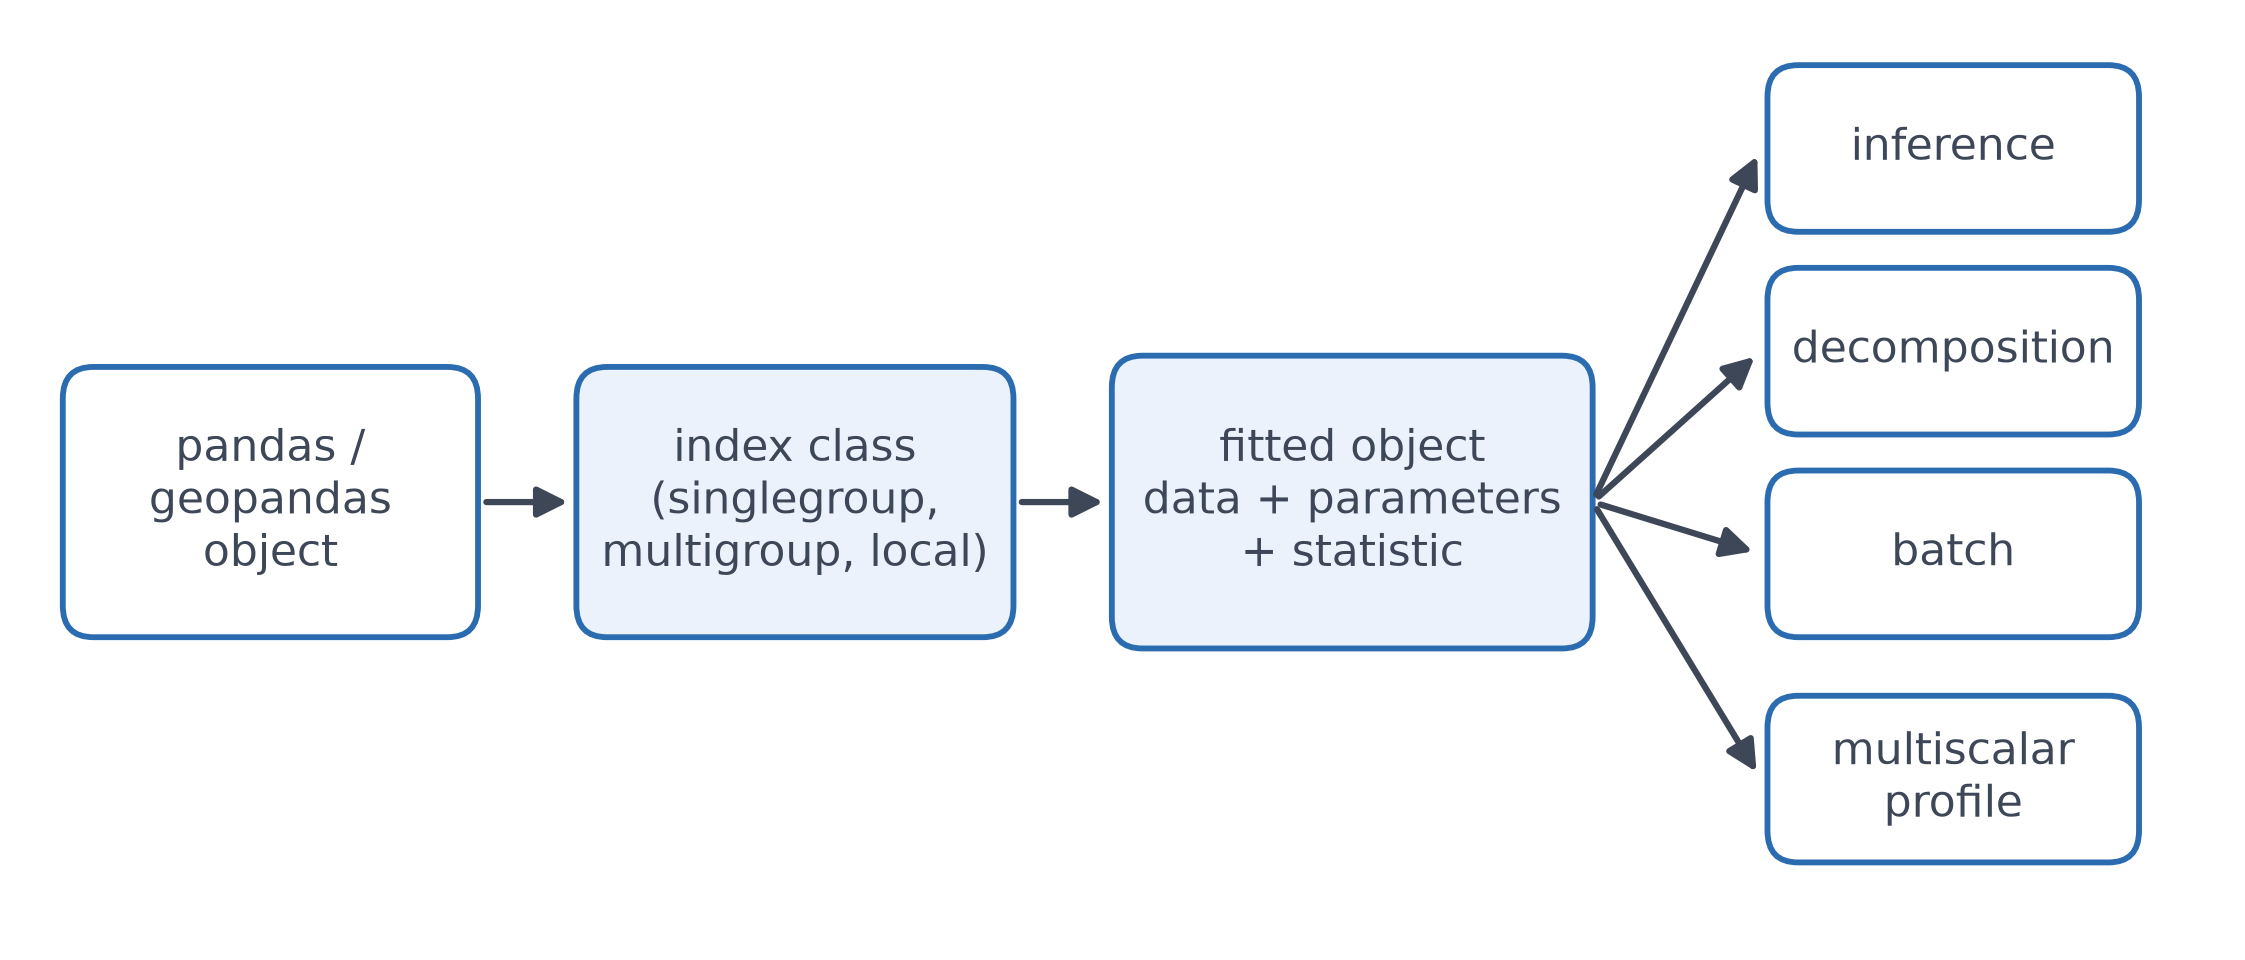
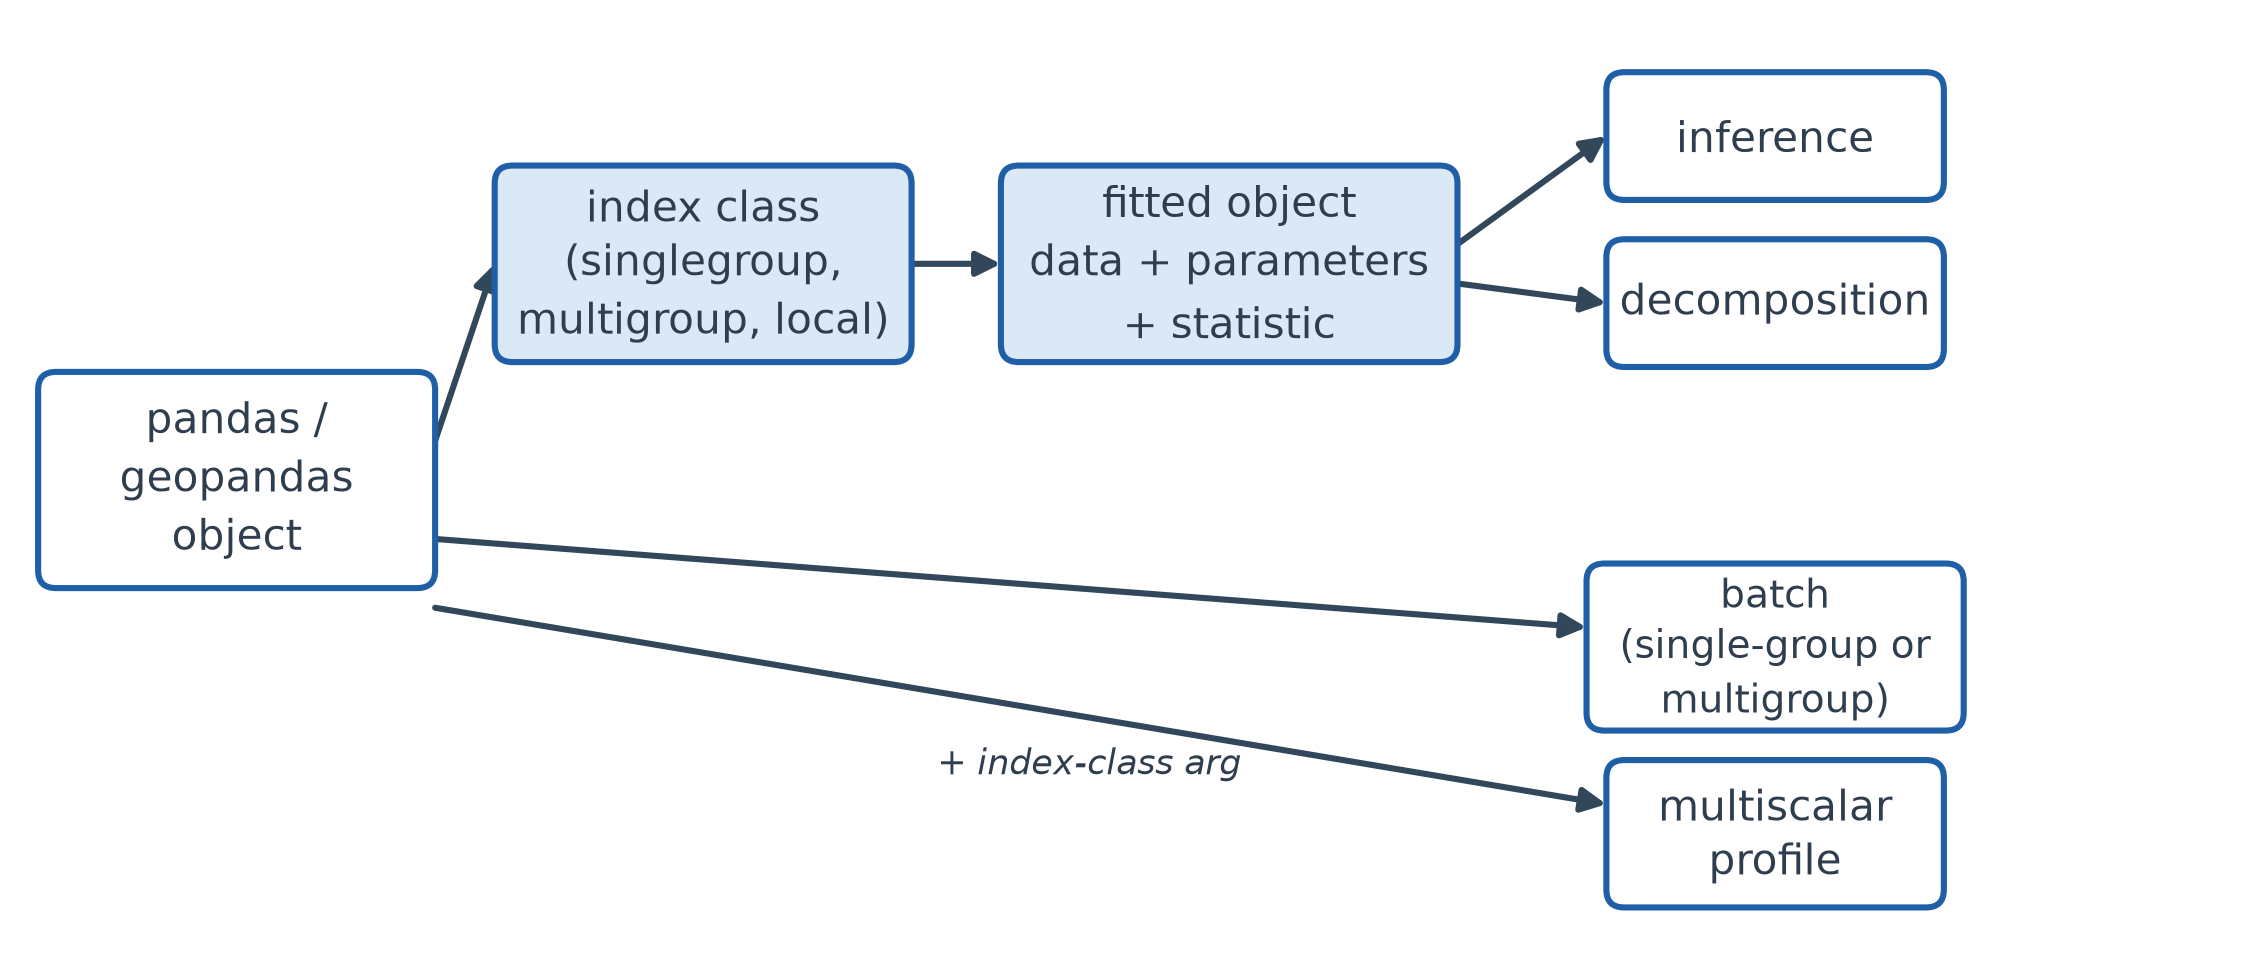
fix diagram figure, caption and description

diff --git a/paper/paper.md b/paper/paper.md
@@ -87,9 +87,9 @@ The most closely related tools are the R packages `OasisR` [@tivadar2019oasisr],
 
 `segregation` is organized into subpackages by analysis task (`singlegroup`, `multigroup`, `local`, `inference`, `decomposition`, `batch`, `network`, and `dynamics`[^1]), so that the large collection of indices stays navigable and users import only what they need. Each index is implemented as a Python class rather than a bare function: fitting a class stores the input data, parameters, and result on one object, which `inference` and `decomposition` then consume directly. This estimator-style pattern follows a convention familiar from scikit-learn and avoids threading many arguments through a functional API. The design also distinguishes two kinds of indices. *Spatially-explicit* indices include space in their formula. *Spatially-implicit* indices instead accept spatial weights or a network and transform the data before estimation, following @reardonsullivan2004; one class therefore serves both aspatial and spatial use, at the cost of expressing spatial behavior through parameters rather than through distinct types.
 
-\autoref{fig:workflow} summarizes the resulting data flow: a `pandas` or `geopandas` object is passed to an index class, which returns a fitted object holding the data, parameters, and statistic; the `inference`, `decomposition`, `batch`, and multiscalar-profile tools then consume that object.
+\autoref{fig:workflow} summarizes the resulting data flow: a `pandas` or `geopandas` object is passed to an index class, which returns a fitted object holding the data, parameters, and statistic; `inference` and `decomposition` consume that fitted object directly. `batch`, which covers both single-group and multigroup measures, instead takes the raw `pandas`/`geopandas` object directly, while the multiscalar-profile tool additionally takes an explicit index-class argument.
 
-![Data flow through the `segregation` API. A `pandas` or `geopandas` object is passed to an index class, which returns a fitted object holding the data, parameters, and computed statistic; the inference, decomposition, batch, and multiscalar-profile tools consume that object.\label{fig:workflow}](figs/workflow.png){ width=95% }
+![Data flow through the `segregation` API. A `pandas` or `geopandas` object is passed to an index class, which returns a fitted object holding the data, parameters, and computed statistic; inference and decomposition consume that fitted object, while batch (single-group or multigroup) and multiscalar-profile tools take the raw data directly, the latter also requiring an explicit index-class argument.\label{fig:workflow}](figs/workflow.png){ width=95% }
 
 [^1]: @cortes2020open introduced `segregation` but many new implementations were developed recently and the API underwent a major revision.
 
